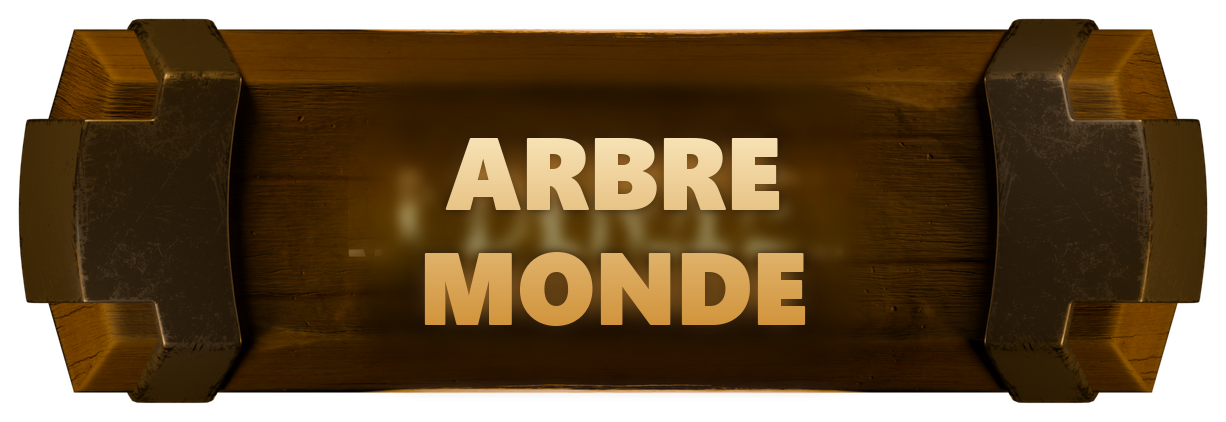
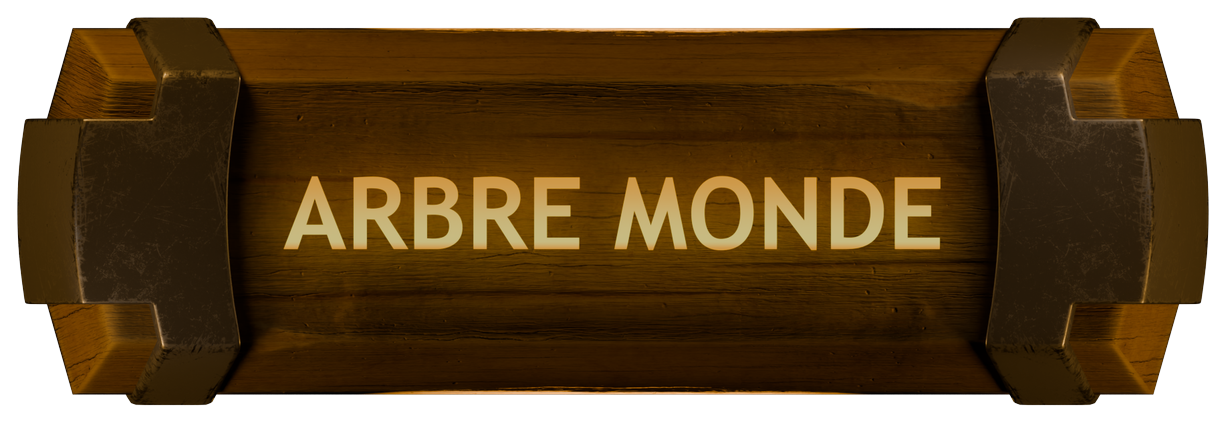
V4.2.3 : recadrage et recompression des 6 plaques de boutons
Les 6 plaques générées en V4.1.0 (QCM, Classique, Liste, Arbre Monde,
Fleuves de l'Enfer, Royaume des Morts) avaient été redéposées en 1920×1080,
16 bits, avec une grosse marge vide autour de la plaque (contre 1226×422,
8 bits, détourée au ras pour les 6 autres boutons). Comme view_primary_buttons
dérive la largeur du bouton depuis le ratio de l'image à hauteur fixe, ce
mismatch les aurait affichées nettement plus petites que les autres boutons
sur les écrans concernés (choix du quiz, quiz Lieux).

Recadrées sur la zone de contenu (identique pour les 6), redimensionnées et
replacées sur le même gabarit 1226×422 avec la marge de 16px des 6 autres,
ramenées en 8 bits : les 12 boutons sont de nouveau strictement au même
format.

diff --git a/README.md b/README.md
@@ -10,30 +10,9 @@ Three quiz modes let you test your knowledge — Classic (a clue, guess the name
 
 Two other files in this repository are worth knowing about: [CHANGELOG.md](CHANGELOG.md) tracks the full version history of the project, and [Base.md](Base.md) is a complete, always up-to-date inventory of every entity, place and artifact currently in the database, including the theme catalog used by the List quiz.
 
-### Changes since the last release (V4.0.0)
+### Latest version — V4.2.3
 
-#### V4.2.2
-
-- Added the `assets/background/` folder (empty for now, with a `.gitkeep`), ready to receive the images of future background themes
-
-#### V4.2.1
-
-- Background themes are now loaded from `assets/background/<asset>.png` (`BackgroundAssets`), instead of one static drawable per theme, like the buttons (`assets/button/`) and achievements (`assets/achievements/`): adding a new background theme now only requires dropping in the matching image. As long as no image is provided, the "Sombre (défaut)" theme falls back to `bg_theme_default` (same subtle halo as in V4.2.0)
-
-#### V4.2.0
-
-- Set up a background theme system for every screen of the app: only one theme available for now ("Sombre (défaut)", a subtle radial halo close to the former plain `@color/surface` background), but the architecture (`BackgroundTheme`, `BackgroundThemeManager`, persistence through SharedPreferences) is ready to host more. The background is applied once to the root container of `MainActivity`, all screens staying transparent; no selection screen yet, coming later
-
-#### V4.1.1
-
-- Added the 4 missing achievement emblems in `assets/achievements/` (`entity_arion`, `entity_ulysse_telemaque`, `collection_dogs`, `collection_animals`): these achievements used to show the fallback generic emblem. A default generic emblem is provided for each, to be replaced individually.
-
-#### V4.1.0
-
-- Button skin overhaul: every menu screen with three main buttons (home, Browse, quiz choice, Places quiz, domain choice) now uses image buttons (engraved wooden plates) loaded from `assets/button/`, instead of text buttons
-- The 6 missing plates (QCM, Classique, Liste, Arbre Monde, Fleuves de l'Enfer, Royaume des Morts) were generated in the same style as the 6 provided ones; the 12 plates are normalised to the same framing and lightened (8 bits, 1280×720)
-- New shared `view_primary_buttons` layout: the column of three buttons is always centred on screen, with no margin, so it is placed identically to the pixel from one screen to the next
-- The identical placement of the three buttons is locked by an automated test (`PrimaryButtonPlacementTest`, Test-Unit branch)
+- New versions of the 6 plates generated in V4.1.0 (QCM, Classique, Liste, Arbre Monde, Fleuves de l'Enfer, Royaume des Morts): cropped tight to the plate and lightened to 8 bits (1226×422, like the other 6 buttons), after a first upload in 1920×1080/16 bits with a large empty margin that would have made them look much smaller than the other buttons on screen
 
 ### Getting started
 
@@ -72,30 +51,9 @@ Trois types de quiz permettent de tester vos connaissances — Classique (un ind
 
 Deux autres fichiers du dépôt sont utiles à connaître : [CHANGELOG.md](CHANGELOG.md) retrace l'historique complet des versions du projet, et [Base.md](Base.md) est un inventaire complet, tenu à jour, de toutes les entités, tous les lieux et tous les artéfacts actuellement dans la base, ainsi que le catalogue des thèmes utilisés par le quiz Liste.
 
-### Nouveautés depuis la dernière release (V4.0.0)
+### Dernière version — V4.2.3
 
-#### V4.2.2
-
-- Ajout du dossier `assets/background/` (vide pour l'instant, avec un `.gitkeep`), prêt à recevoir les images des futurs thèmes de fond
-
-#### V4.2.1
-
-- Les thèmes de fond se chargent désormais depuis `assets/background/<asset>.png` (`BackgroundAssets`), au lieu d'un drawable statique par thème, à la manière des boutons (`assets/button/`) et des succès (`assets/achievements/`) : ajouter un nouveau thème de fond ne demande plus que de déposer l'image correspondante. Tant qu'aucune image n'est fournie, le thème « Sombre (défaut) » se rabat sur `bg_theme_default` (même halo discret qu'en V4.2.0)
-
-#### V4.2.0
-
-- Mise en place d'un système de thèmes de fond pour l'ensemble des écrans de l'application : un seul thème disponible pour l'instant (« Sombre (défaut) », un halo radial discret proche de l'ancien fond uni `@color/surface`), mais l'architecture (`BackgroundTheme`, `BackgroundThemeManager`, persistance par SharedPreferences) est prête à en accueillir d'autres. Le fond est appliqué une seule fois au conteneur racine de `MainActivity`, tous les écrans restant transparents ; pas encore d'écran de sélection, à venir
-
-#### V4.1.1
-
-- Ajout des 4 emblèmes de succès manquants dans `assets/achievements/` (`entity_arion`, `entity_ulysse_telemaque`, `collection_dogs`, `collection_animals`) : ces succès affichaient jusqu'ici le blason générique de secours. Blason générique par défaut fourni pour chacun, à remplacer individuellement.
-
-#### V4.1.0
-
-- Refonte du skin des boutons : tous les écrans de menu à trois boutons principaux (accueil, Parcourir, choix du quiz, quiz Lieux, choix du domaine) utilisent désormais des boutons-images (plaques de bois gravées) chargés depuis `assets/button/`, au lieu de boutons texte
-- Les 6 plaques manquantes (QCM, Classique, Liste, Arbre Monde, Fleuves de l'Enfer, Royaume des Morts) ont été générées dans le même style que les 6 fournies ; les 12 plaques sont normalisées au même cadrage et allégées (8 bits, 1280×720)
-- Nouveau gabarit partagé `view_primary_buttons` : la colonne des trois boutons est toujours centrée à l'écran, sans marge, donc placée au pixel près de façon identique d'un écran à l'autre
-- Le placement identique des trois boutons est verrouillé par un test automatique (`PrimaryButtonPlacementTest`, branche Test-Unit)
+- Nouvelles versions des 6 plaques générées en V4.1.0 (QCM, Classique, Liste, Arbre Monde, Fleuves de l'Enfer, Royaume des Morts) : recadrées au ras de la plaque et allégées en 8 bits (1226×422, comme les 6 autres boutons), après un premier dépôt en 1920×1080/16 bits avec une grosse marge vide qui les aurait fait apparaître nettement plus petites que les autres boutons à l'écran
 
 ### Démarrage
 

diff --git a/CHANGELOG.md b/CHANGELOG.md
@@ -2,6 +2,10 @@
 
 ## V4
 
+#### V4.2.3
+
+- Nouvelles versions des 6 plaques générées en V4.1.0 (QCM, Classique, Liste, Arbre Monde, Fleuves de l'Enfer, Royaume des Morts) : recadrées au ras de la plaque et allégées en 8 bits (1226×422, comme les 6 autres boutons), après un premier dépôt en 1920×1080/16 bits avec une grosse marge vide qui les aurait fait apparaître nettement plus petites que les autres boutons à l'écran
+
 #### V4.2.2
 
 - Ajout du dossier `assets/background/` (vide pour l'instant, avec un `.gitkeep`), prêt à recevoir les images des futurs thèmes de fond
